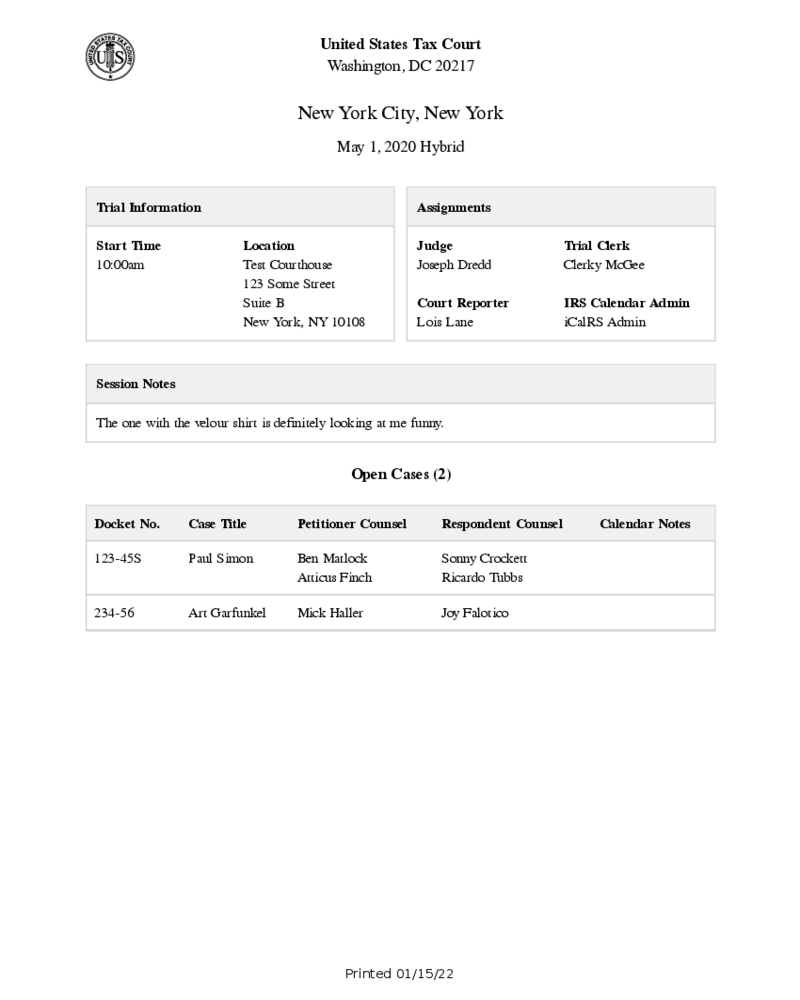
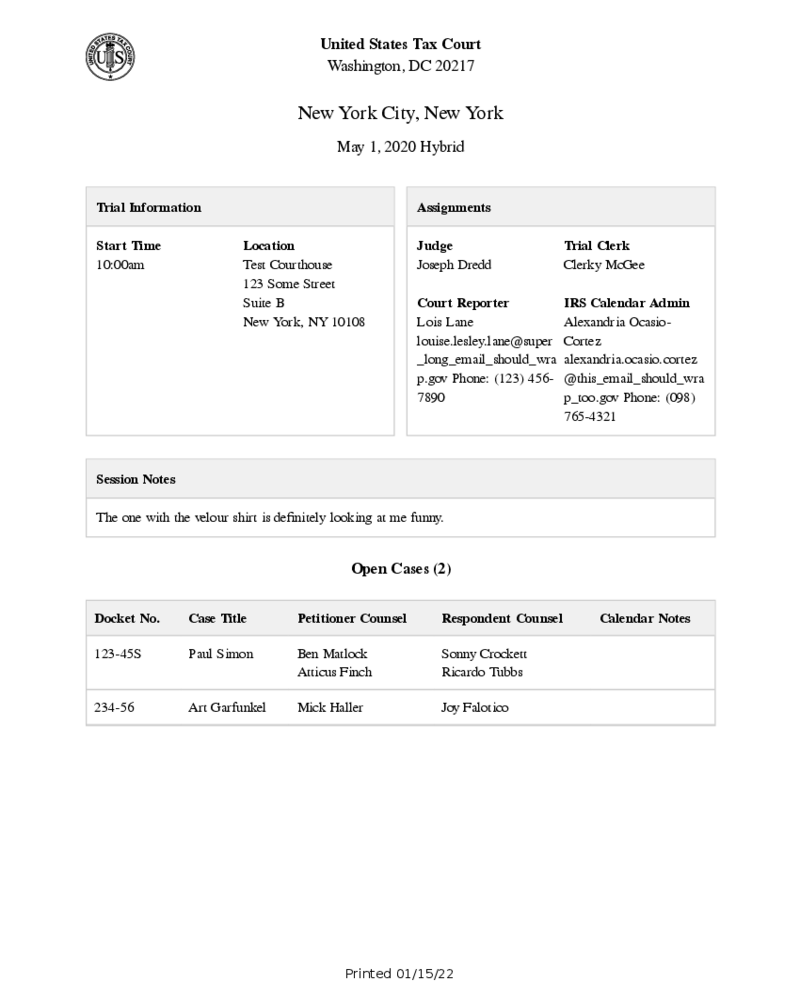
10024: Add longer court report and irs calendar admin text so the pdf generation test for printable trial information will catch this bug in the future

diff --git a/shared/src/business/utilities/documentGenerators/trialCalendar.test.ts b/shared/src/business/utilities/documentGenerators/trialCalendar.test.ts
@@ -29,10 +29,12 @@ describe('trialCalendar', () => {
           sessionDetail: {
             address1: '123 Some Street',
             address2: 'Suite B',
-            courtReporter: 'Lois Lane',
+            courtReporter:
+              'Lois Lane\n louise.lesley.lane@super_long_email_should_wrap.gov\n Phone: (123) 456-7890',
             courthouseName: 'Test Courthouse',
             formattedCityStateZip: 'New York, NY 10108',
-            irsCalendarAdministrator: 'iCalRS Admin',
+            irsCalendarAdministrator:
+              'Alexandria Ocasio-Cortez\n alexandria.ocasio.cortez@this_email_should_wrap_too.gov \n Phone: (098) 765-4321',
             judge: 'Joseph Dredd',
             notes:
               'The one with the velour shirt is definitely looking at me funny.',
